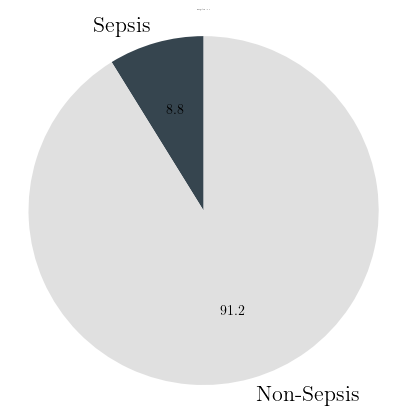
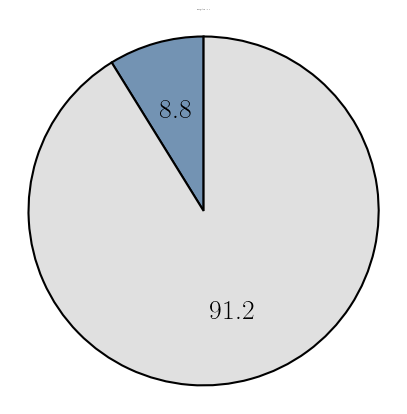
minor image changes

diff --git a/utils/analyse_data.py b/utils/analyse_data.py
@@ -265,21 +265,21 @@ def plot_combined_metrics(results):
 
 def plot_inbalance_pie_chart():
     values = [8.8, 91.2]
-    labels = ['Sepsis %', 'Non-Sepsis %']
-    colors = ['#36454F', '#E0E0E0']
+    colors = ['#7393B3', '#E0E0E0']
     
     plt.figure(figsize=(5, 5))
-    plt.pie(values, labels=labels, autopct='%1.1f%%', colors=colors, startangle=90)
+    wedges, texts, autotexts = plt.pie(values, autopct='%1.1f%%', colors=colors, startangle=90,
+                                       wedgeprops={'edgecolor': 'black', 'linewidth': 1.5}, textprops={'fontsize': 20})
     plt.title('Hospital A (8.8%)')
     plt.axis('equal')  
     plt.show()
 
     values = [5.7, 94.3]
-    labels = ['Sepsis %', 'Non-Sepsis %']
-    colors = ['#36454F', '#E0E0E0']
+    colors = ['#7393B3', '#E0E0E0']
     
     plt.figure(figsize=(5, 5))
-    plt.pie(values, labels=labels, autopct='%1.1f%%', colors=colors, startangle=90)
+    wedges, texts, autotexts = plt.pie(values, autopct='%1.1f%%', colors=colors, startangle=90,
+                                       wedgeprops={'edgecolor': 'black', 'linewidth': 1.5}, textprops={'fontsize': 20})
     plt.title('Hospital B (5.7%)')
     plt.axis('equal')  
     plt.show()
